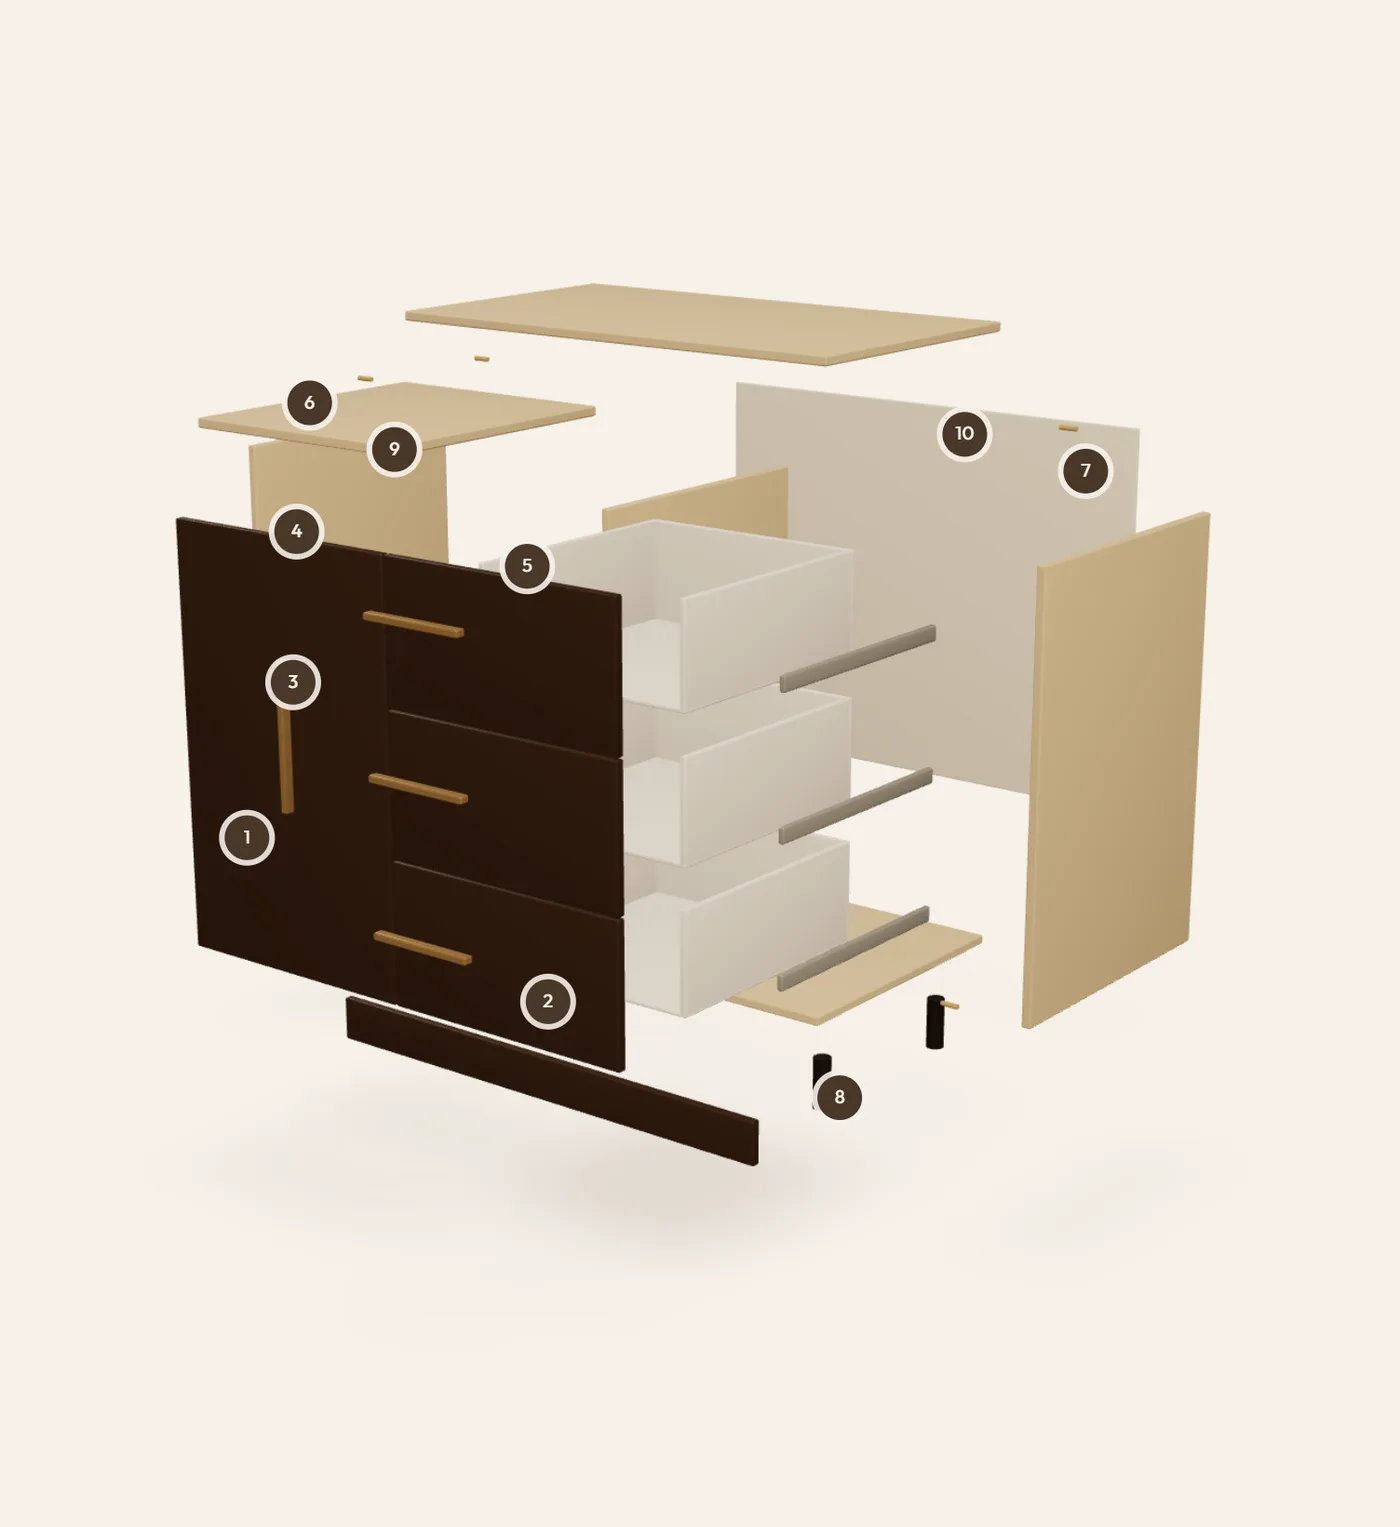
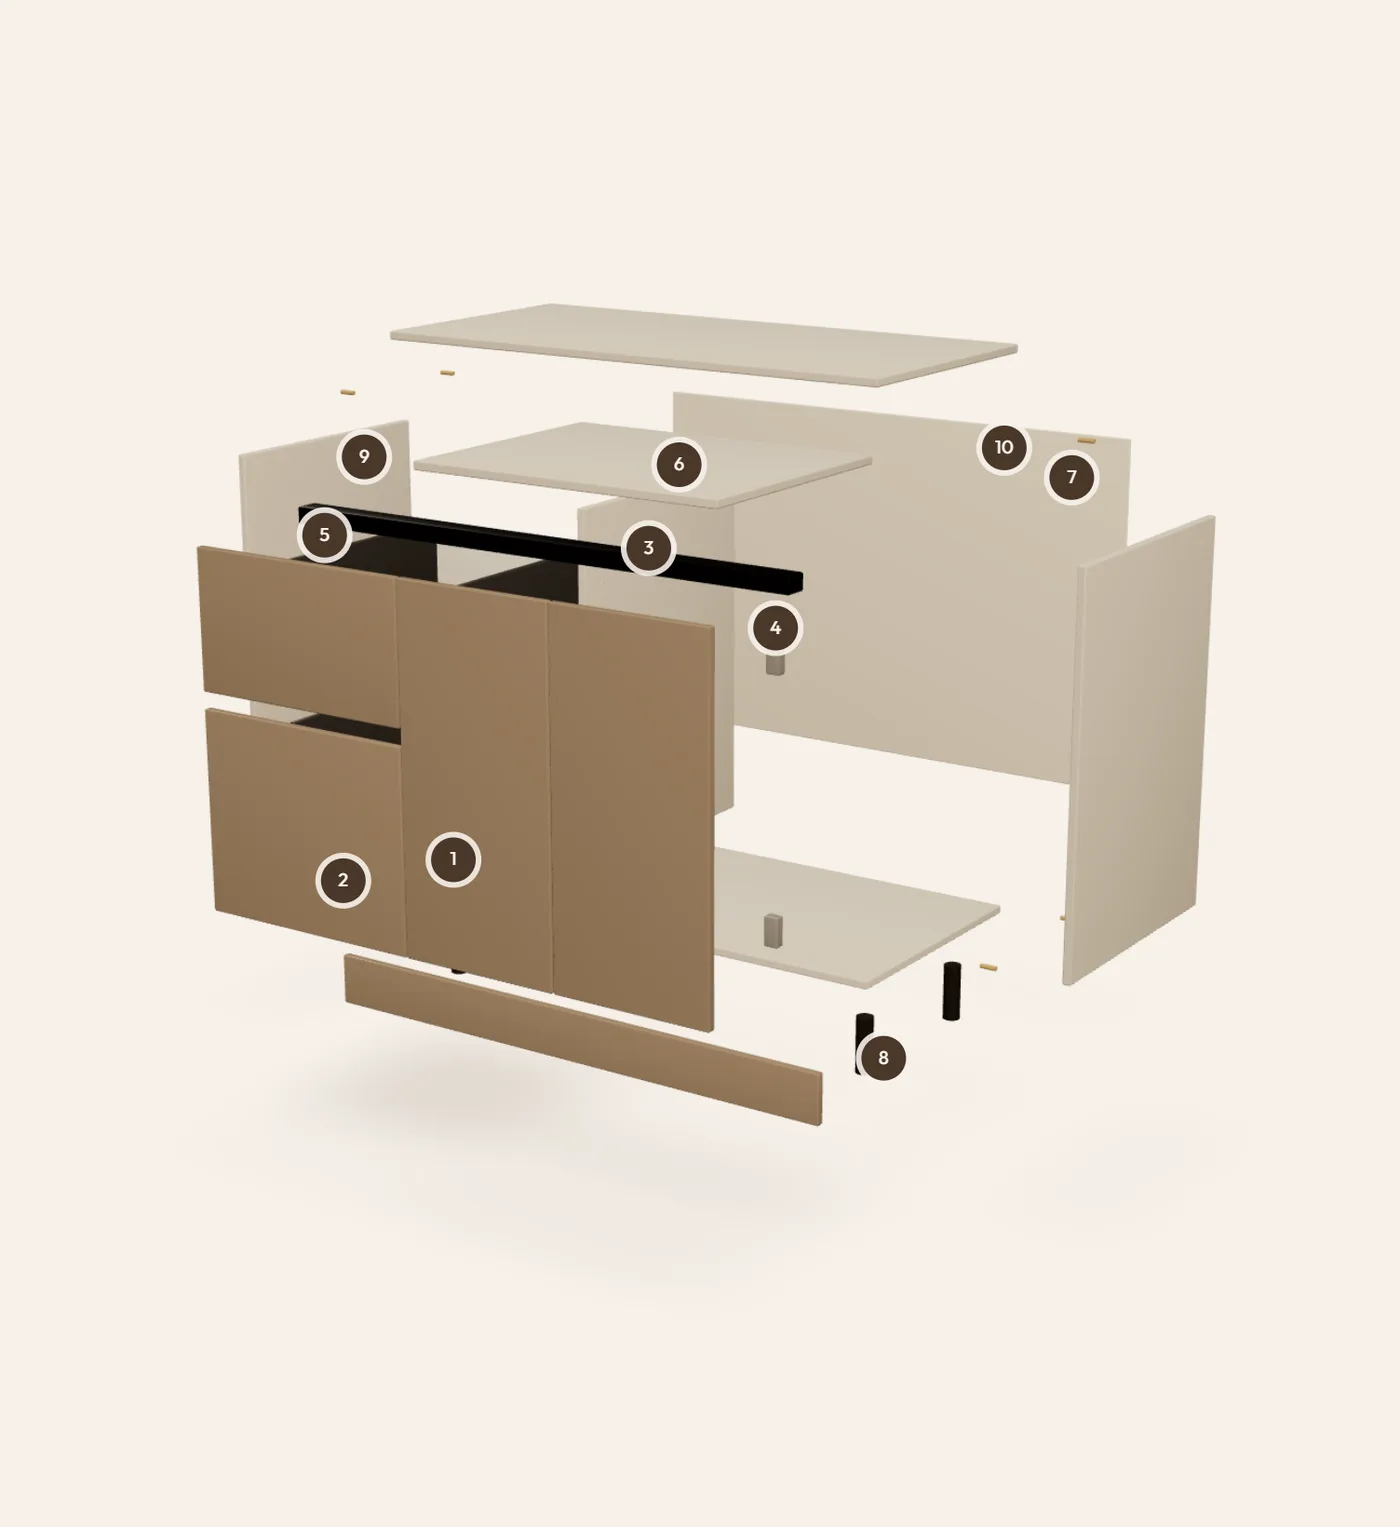
3D dolap gerçek ürüne ve malzemelere göre güncellendi
- Marka sahibinin ürün fotoğrafına göre yeniden modellendi: şampanya
  akrilik kapaklar, siyah gola kanalları, solda 2 çekmece + sağda çift
  kapak, geride baza, 12 cm ayak, tandem çekmece
- Renkler fotoğraftan ölçüldü; dönüş açısı ön yüzü daha iyi gösteriyor
- Parça listesi gerçek malzemelerle güncellendi (akrilik MDF, 3 mm PVC,
  Samet menteşe ve tandem ray, MDF-lam gövde); bağlantı parçaları hâlâ
  doğrulanmadı
- Yedek görseller yeni modelden yeniden üretildi
- Ürün fotoğrafı assets-kaynak/ klasörüne taşındı

Changed region(s): [[0.1229, 0.1847, 0.8907, 0.7695], [0.6143, 0.4001, 0.6757, 0.4309]]

diff --git a/components/home/cabinet/CabinetCanvas.tsx b/components/home/cabinet/CabinetCanvas.tsx
@@ -10,29 +10,66 @@ import { acilmaMiktari } from "./zamanlama";
 
 /*
  * Kodla modellenmiş alt dolap modülü. Birim: metre.
- * 100 cm genişlik × 80 cm gövde yüksekliği × 56 cm derinlik, 10 cm ayak.
- * Sol bölme: kapak + raf. Sağ bölme: üç çekmece.
+ * Görünüm marka sahibinin gönderdiği gerçek üründen (assets-kaynak/dolap.jpeg):
+ * şampanya tonunda parlak akrilik kapaklar, kulpsuz siyah gola kanalları,
+ * solda iki çekmece, sağda çift kapak.
+ *
+ * 120 cm genişlik × 80 cm gövde × 56 cm derinlik, 12 cm ayak.
  * Panel kalınlıkları gerçek ölçüde: gövde 18 mm, arkalık 8 mm.
  */
-const W = 1.0;
+const W = 1.2;
 const H = 0.8;
 const D = 0.56;
 const T = 0.018;
 const B = 0.008;
 /** Ön paneller arası boşluk */
 const ARA = 0.003;
+/** Gola kanalı yüksekliği */
+const GOLA = 0.035;
+const AYAK = 0.12;
 
-const BOLME_GENISLIGI = W / 2 - T - T / 2;
-const X_SOL = (-W / 2 + T - T / 2) / 2;
-const X_SAG = -X_SOL;
-const X_ON = (-W / 2 + ARA - ARA / 2) / 2;
+/** Çekmece bölmesi ile kapak bölmesini ayıran orta dikmenin ekseni */
+const X_DIKME = -W / 2 + 0.5;
+const SOL_GENISLIK = X_DIKME - T / 2 - (-W / 2 + T);
+const X_SOL = (-W / 2 + T + X_DIKME - T / 2) / 2;
+const SAG_GENISLIK = W / 2 - T - (X_DIKME + T / 2);
+const X_SAG = (X_DIKME + T / 2 + W / 2 - T) / 2;
+
 const Z_ON = D / 2 + T / 2;
-const ON_GENISLIGI = W / 2 - 1.5 * ARA;
-const CEKMECE_ON_Y = (H - 4 * ARA) / 3;
-const cekmeceY = (i: number) => H / 2 - ARA - CEKMECE_ON_Y / 2 - i * (CEKMECE_ON_Y + ARA);
+const Z_GOLA = D / 2 - 0.025;
+/** Önlerin üst kenarı: üstte gola kanalı kadar boşluk kalır */
+const ON_UST = H / 2 - T - GOLA;
+const ON_ALT = -H / 2 + ARA;
+
+// Sol bölme: üstte kısa, altta uzun çekmece; aralarında gola kanalı
+const CEKMECE_ON_GENISLIK = 0.5 - 1.5 * ARA;
+const X_CEKMECE_ON = (-W / 2 + ARA + X_DIKME - ARA / 2) / 2;
+const UST_CEKMECE_Y = 0.29;
+const ORTA_GOLA_UST = ON_UST - UST_CEKMECE_Y;
+const ALT_CEKMECE_UST = ORTA_GOLA_UST - GOLA;
+const cekmeceler = [
+  { y: ON_UST - UST_CEKMECE_Y / 2, h: UST_CEKMECE_Y },
+  { y: (ALT_CEKMECE_UST + ON_ALT) / 2, h: ALT_CEKMECE_UST - ON_ALT },
+];
+
+// Sağ bölme: çift kapak
+const KAPAK_SOL = X_DIKME + ARA / 2;
+const KAPAK_SAG = W / 2 - ARA;
+const KAPAK_GENISLIK = (KAPAK_SAG - KAPAK_SOL - ARA) / 2;
+const KAPAK_Y = (ON_UST + ON_ALT) / 2;
+const KAPAK_H = ON_UST - ON_ALT;
 
 type V3 = [number, number, number];
-type MalzemeAdi = "govde" | "on" | "arkalik" | "cekmece" | "metal" | "pirinc" | "plastik" | "kavela";
+type MalzemeAdi =
+  | "govde"
+  | "on"
+  | "gola"
+  | "arkalik"
+  | "cekmece"
+  | "tandem"
+  | "metal"
+  | "plastik"
+  | "kavela";
 
 type Parca = {
   asama: Asama;
@@ -48,13 +85,15 @@ type Parca = {
   kapaliykenGizli?: boolean;
 };
 
+/** Renkler gerçek ürün fotoğrafından ölçüldü (kapak #A48364, gola #110C0A). */
 const MALZEMELER: Record<MalzemeAdi, ConstructorParameters<typeof MeshStandardMaterial>[0]> = {
-  govde: { color: "#D8BF9A", roughness: 0.78 },
-  on: { color: "#4A372A", roughness: 0.4 },
+  govde: { color: "#DDD3C5", roughness: 0.72 },
+  on: { color: "#A8937E", roughness: 0.16, metalness: 0.08 },
+  gola: { color: "#15110F", roughness: 0.38, metalness: 0.5 },
   arkalik: { color: "#EADFCF", roughness: 0.9 },
-  cekmece: { color: "#F1EADF", roughness: 0.72 },
+  cekmece: { color: "#ECE5DB", roughness: 0.72 },
+  tandem: { color: "#5B5651", roughness: 0.4, metalness: 0.45 },
   metal: { color: "#BDB7AE", roughness: 0.35, metalness: 0.35 },
-  pirinc: { color: "#BF9763", roughness: 0.32, metalness: 0.45 },
   plastik: { color: "#2A211B", roughness: 0.6 },
   kavela: { color: "#C9A46E", roughness: 0.8 },
 };
@@ -67,7 +106,7 @@ function parcalariKur(): Parca[] {
   p.push({ asama: 3, kutu: [T, H, D], konum: [W / 2 - T / 2, 0, 0], acilma: [0.42, 0, 0], malzeme: "govde" });
   p.push({ asama: 3, kutu: [W - 2 * T, T, D - B], konum: [0, H / 2 - T / 2, B / 2], acilma: [0, 0.3, 0], malzeme: "govde" });
   p.push({ asama: 3, kutu: [W - 2 * T, T, D - B], konum: [0, -H / 2 + T / 2, B / 2], acilma: [0, -0.1, 0], malzeme: "govde" });
-  p.push({ asama: 3, kutu: [T, H - 2 * T, D - B], konum: [0, 0, B / 2], acilma: [0, 0, 0], malzeme: "govde" });
+  p.push({ asama: 3, kutu: [T, H - 2 * T, D - B], konum: [X_DIKME, 0, B / 2], acilma: [0, 0, 0], malzeme: "govde" });
 
   // Kavelalar: kapalıyken yan panel ile tabla arasına gömülü, açılınca ortada
   for (const sx of [-1, 1])
@@ -84,47 +123,55 @@ function parcalariKur(): Parca[] {
         });
 
   // ── Aşama 2: arkalık, ayaklar, baza ─────────────────────────
-  p.push({ asama: 2, kutu: [W - 0.004, H - 0.004, B], konum: [0, 0, -D / 2 + B / 2], acilma: [0, 0.04, -0.5], malzeme: "arkalik", isaret: { no: 7, konum: [0.38, 0.3, 0] } });
+  p.push({ asama: 2, kutu: [W - 0.004, H - 0.004, B], konum: [0, 0, -D / 2 + B / 2], acilma: [0, 0.04, -0.5], malzeme: "arkalik", isaret: { no: 7, konum: [0.46, 0.3, 0] } });
   for (const sx of [-1, 1])
     for (const sz of [-1, 1])
       p.push({
         asama: 2,
-        silindir: { r: 0.017, h: 0.1, eksen: "y" },
-        konum: [sx * (W / 2 - 0.07), -H / 2 - 0.05, sz * (D / 2 - 0.09)],
+        silindir: { r: 0.018, h: AYAK, eksen: "y" },
+        konum: [sx * (W / 2 - 0.08), -H / 2 - AYAK / 2, sz * (D / 2 - 0.1)],
         acilma: [0, -0.2, 0],
         malzeme: "plastik",
-        isaret: sx > 0 && sz > 0 ? { no: 8, konum: [0.04, -0.02, 0] } : undefined,
+        isaret: sx > 0 && sz > 0 ? { no: 8, konum: [0.045, -0.02, 0] } : undefined,
       });
-  p.push({ asama: 2, kutu: [W - 0.01, 0.085, T], konum: [0, -H / 2 - 0.052, D / 2 - 0.06], acilma: [0, -0.2, 0.26], malzeme: "on" });
+  // Baza: fotoğraftaki gibi geriden, kapaklarla aynı renkte
+  p.push({ asama: 2, kutu: [W - 0.01, AYAK - 0.012, T], konum: [0, -H / 2 - AYAK / 2, D / 2 - 0.07], acilma: [0, -0.2, 0.26], malzeme: "on" });
 
   // ── Aşama 1: raf, çekmece kutuları ve rayları ───────────────
-  // Raf kapağın arkasında görünmez kalmasın diye kapağın üstüne doğru çıkar.
-  p.push({ asama: 1, kutu: [BOLME_GENISLIGI - 0.004, T, D - B - 0.03], konum: [X_SOL, 0.01, B / 2 - 0.015], acilma: [0, 0.55, 0.56], malzeme: "govde", isaret: { no: 6, konum: [-0.1, 0.03, 0.12] } });
+  // Raf kapakların arkasında görünmez kalmasın diye kapakların üstüne doğru çıkar.
+  p.push({ asama: 1, kutu: [SAG_GENISLIK - 0.004, T, D - B - 0.03], konum: [X_SAG, 0, B / 2 - 0.015], acilma: [0, 0.55, 0.56], malzeme: "govde", isaret: { no: 6, konum: [0.16, 0.03, 0.12] } });
 
-  const kg = BOLME_GENISLIGI - 0.026;
-  const ky = CEKMECE_ON_Y - 0.07;
+  const kg = SOL_GENISLIK - 0.03;
   const kd = D - B - 0.07;
   const kz = D / 2 - kd / 2 - 0.012;
-  for (let i = 0; i < 3; i++) {
-    const y = cekmeceY(i) - 0.012;
+  cekmeceler.forEach((c, i) => {
+    const ky = c.h - (i === 0 ? 0.1 : 0.12);
+    const y = c.y - 0.01;
     const ac: V3 = [0, 0, 0.38];
-    p.push({ asama: 1, kutu: [0.012, ky, kd], konum: [X_SAG - kg / 2 + 0.006, y, kz], acilma: ac, malzeme: "cekmece", isaret: i === 0 ? { no: 5, konum: [0, 0.07, 0.12] } : undefined });
-    p.push({ asama: 1, kutu: [0.012, ky, kd], konum: [X_SAG + kg / 2 - 0.006, y, kz], acilma: ac, malzeme: "cekmece" });
-    p.push({ asama: 1, kutu: [kg, ky, 0.012], konum: [X_SAG, y, kz - kd / 2 + 0.006], acilma: ac, malzeme: "cekmece" });
-    p.push({ asama: 1, kutu: [kg, 0.008, kd], konum: [X_SAG, y - ky / 2 + 0.004, kz], acilma: ac, malzeme: "cekmece" });
+    // Tandem çekmece: metal yanlar, MDF arkalık ve taban
+    p.push({ asama: 1, kutu: [0.014, ky, kd], konum: [X_SOL - kg / 2 + 0.007, y, kz], acilma: ac, malzeme: "tandem", isaret: i === 0 ? { no: 5, konum: [0, ky / 2 + 0.03, 0.12] } : undefined });
+    p.push({ asama: 1, kutu: [0.014, ky, kd], konum: [X_SOL + kg / 2 - 0.007, y, kz], acilma: ac, malzeme: "tandem" });
+    p.push({ asama: 1, kutu: [kg, ky, 0.014], konum: [X_SOL, y, kz - kd / 2 + 0.007], acilma: ac, malzeme: "cekmece" });
+    p.push({ asama: 1, kutu: [kg, 0.016, kd], konum: [X_SOL, y - ky / 2 + 0.008, kz], acilma: ac, malzeme: "cekmece" });
+    // Tandem ray: çekmecenin altında, gizli
     for (const s of [-1, 1])
-      p.push({ asama: 1, kutu: [0.012, 0.03, kd - 0.02], konum: [X_SAG + s * (kg / 2 + 0.0065), y - ky / 2 + 0.02, kz], acilma: [s * 0.05, 0, 0.2], malzeme: "metal" });
-  }
+      p.push({ asama: 1, kutu: [0.014, 0.014, kd - 0.02], konum: [X_SOL + s * (kg / 2 - 0.03), y - ky / 2 - 0.008, kz], acilma: [s * 0.04, -0.03, 0.2], malzeme: "metal" });
+  });
 
-  // ── Aşama 0: kapak, çekmece önleri, kulplar, menteşeler ─────
-  p.push({ asama: 0, kutu: [ON_GENISLIGI, H - 2 * ARA, T], konum: [X_ON, 0, Z_ON], acilma: [0, 0, 0.56], malzeme: "on", isaret: { no: 1, konum: [-0.1, -0.16, 0.012] } });
-  for (let i = 0; i < 3; i++)
-    p.push({ asama: 0, kutu: [ON_GENISLIGI, CEKMECE_ON_Y, T], konum: [-X_ON, cekmeceY(i), Z_ON], acilma: [0, 0, 0.56], malzeme: "on", isaret: i === 2 ? { no: 2, konum: [0.1, -0.04, 0.012] } : undefined });
-  p.push({ asama: 0, kutu: [0.014, 0.26, 0.02], konum: [-0.045, 0.12, Z_ON + T / 2 + 0.012], acilma: [0, 0, 0.74], malzeme: "pirinc", isaret: { no: 3, konum: [0.035, 0.1, 0.01] } });
-  for (let i = 0; i < 3; i++)
-    p.push({ asama: 0, kutu: [0.2, 0.014, 0.02], konum: [-X_ON, cekmeceY(i) + CEKMECE_ON_Y / 2 - 0.045, Z_ON + T / 2 + 0.012], acilma: [0, 0, 0.74], malzeme: "pirinc" });
-  for (const sy of [-1, 1])
-    p.push({ asama: 0, kutu: [0.03, 0.06, 0.022], konum: [-W / 2 + T + 0.02, sy * 0.28, D / 2 - 0.02], acilma: [0, 0, 0.34], malzeme: "metal", isaret: sy > 0 ? { no: 4, konum: [0, 0.055, 0] } : undefined });
+  // ── Aşama 0: kapaklar, çekmece önleri, gola kulplar, menteşeler ──
+  p.push({ asama: 0, kutu: [CEKMECE_ON_GENISLIK, UST_CEKMECE_Y, T], konum: [X_CEKMECE_ON, cekmeceler[0].y, Z_ON], acilma: [0, 0, 0.56], malzeme: "on" });
+  p.push({ asama: 0, kutu: [CEKMECE_ON_GENISLIK, cekmeceler[1].h, T], konum: [X_CEKMECE_ON, cekmeceler[1].y, Z_ON], acilma: [0, 0, 0.56], malzeme: "on", isaret: { no: 2, konum: [0.1, -0.08, 0.012] } });
+  p.push({ asama: 0, kutu: [KAPAK_GENISLIK, KAPAK_H, T], konum: [KAPAK_SOL + KAPAK_GENISLIK / 2, KAPAK_Y, Z_ON], acilma: [0, 0, 0.56], malzeme: "on", isaret: { no: 1, konum: [-0.05, -0.15, 0.012] } });
+  p.push({ asama: 0, kutu: [KAPAK_GENISLIK, KAPAK_H, T], konum: [KAPAK_SAG - KAPAK_GENISLIK / 2, KAPAK_Y, Z_ON], acilma: [0, 0, 0.56], malzeme: "on" });
+
+  // Gola kanalları: üstte boydan boya, solda iki çekmece arasında
+  p.push({ asama: 0, kutu: [W - 2 * T, GOLA, 0.05], konum: [0, H / 2 - T - GOLA / 2, Z_GOLA], acilma: [0, 0, 0.3], malzeme: "gola", isaret: { no: 3, konum: [0.28, 0.035, 0.03] } });
+  p.push({ asama: 0, kutu: [SOL_GENISLIK, GOLA, 0.05], konum: [X_SOL, ORTA_GOLA_UST - GOLA / 2, Z_GOLA], acilma: [0, 0, 0.3], malzeme: "gola" });
+
+  // Menteşeler: sol kapak orta dikmeye, sağ kapak yan panele takılı
+  for (const x of [X_DIKME + T / 2 + 0.015, W / 2 - T - 0.015])
+    for (const sy of [-1, 1])
+      p.push({ asama: 0, kutu: [0.03, 0.06, 0.022], konum: [x, KAPAK_Y + sy * 0.26, D / 2 - 0.02], acilma: [0, 0, 0.34], malzeme: "metal", isaret: x > 0 && sy > 0 ? { no: 4, konum: [0, 0.055, 0] } : undefined });
 
   return p;
 }
@@ -162,10 +209,10 @@ function Sahne({ ilerleme }: { ilerleme: MotionValue<number> }) {
     // Dar (dikey) ekranda dolap sığsın diye kamera geri çekilir
     const oran = state.size.width / state.size.height;
     const uzaklik = Math.max(1, (state.size.width < 768 ? 1.6 : 1.35) / oran);
-    state.camera.position.set(1.7 * uzaklik, 0.85 * uzaklik, 2.5 * uzaklik);
-    state.camera.lookAt(0, -0.06, 0);
+    state.camera.position.set(1.85 * uzaklik, 0.92 * uzaklik, 2.75 * uzaklik);
+    state.camera.lookAt(0, -0.08, 0);
 
-    if (grup.current) grup.current.rotation.y = -0.6 + p * 0.9;
+    if (grup.current) grup.current.rotation.y = -0.45 + p * 0.75;
 
     PARCALAR.forEach((parca, i) => {
       const g = parcaGruplari.current[i];
@@ -189,7 +236,7 @@ function Sahne({ ilerleme }: { ilerleme: MotionValue<number> }) {
       <directionalLight position={[2.5, 4, 3]} intensity={1.9} color="#fff1dc" />
       <directionalLight position={[-3, 2, -2]} intensity={0.45} color="#e8ddd0" />
 
-      <group ref={grup} position={[0, 0.1, 0]}>
+      <group ref={grup} position={[0, 0.12, 0]}>
         {PARCALAR.map((parca, i) => (
           <group
             key={i}
@@ -230,7 +277,7 @@ function Sahne({ ilerleme }: { ilerleme: MotionValue<number> }) {
         ))}
       </group>
 
-      <ContactShadows position={[0, -0.72, 0]} scale={3.4} far={1.6} blur={2.6} opacity={0.3} color="#4A372A" />
+      <ContactShadows position={[0, -0.76, 0]} scale={3.8} far={1.6} blur={2.6} opacity={0.3} color="#4A372A" />
     </>
   );
 }
@@ -251,7 +298,7 @@ export default function CabinetCanvas({
     <Canvas
       frameloop="demand"
       dpr={[1, 1.75]}
-      camera={{ fov: 30, near: 0.1, far: 20, position: [1.7, 0.85, 2.5] }}
+      camera={{ fov: 30, near: 0.1, far: 20, position: [1.85, 0.92, 2.75] }}
       gl={{ antialias: true, alpha: true }}
       onCreated={onHazir}
     >

diff --git a/data/cabinetParts.ts b/data/cabinetParts.ts
@@ -1,10 +1,12 @@
 /**
  * "Bir dolabın anatomisi" bölümündeki parça listesi.
  *
- * ⚠ Malzeme bilgileri TASLAK — marka sahibi onaylamalı
- * (docs/TASARIM-PLANI.md §6 ve §10.5). Gerçek bilgiler gelince yalnızca
- * bu dosyayı güncellemek yeterli; 3D sahnedeki numaralar `no` ile eşleşir.
+ * Malzemeler marka sahibinden alındı (15.09.2026). Yalnızca 10 numara
+ * (bağlantı parçaları) henüz doğrulanmadı; bkz. docs/TASARIM-PLANI.md §10.5.
+ * Sitede listenin altında "malzeme ve donanım seçimi projeye göre birlikte
+ * belirlenir" notu durur; liste "genelde bunları kullanıyoruz" anlamındadır.
  *
+ * 3D sahnedeki numaralar `no` ile eşleşir.
  * `asama`: parçanın kaydırma sırasında ayrıldığı adım (0 → 3).
  */
 export type Asama = 0 | 1 | 2 | 3;
@@ -29,38 +31,38 @@ export const dolapParcalari: DolapParcasi[] = [
   {
     no: 1,
     asama: 0,
-    ad: { TR: "Kapak", EN: "Door" },
-    malzeme: { TR: "18 mm lake MDF, PVC kenar bandı", EN: "18 mm lacquered MDF, PVC edge banding" },
+    ad: { TR: "Kapaklar", EN: "Doors" },
+    malzeme: { TR: "18 mm akrilik MDF, 3 mm PVC kenar bandı", EN: "18 mm acrylic MDF, 3 mm PVC edge banding" },
   },
   {
     no: 2,
     asama: 0,
     ad: { TR: "Çekmece önleri", EN: "Drawer fronts" },
-    malzeme: { TR: "18 mm lake MDF", EN: "18 mm lacquered MDF" },
+    malzeme: { TR: "18 mm akrilik MDF", EN: "18 mm acrylic MDF" },
   },
   {
     no: 3,
     asama: 0,
-    ad: { TR: "Kulplar", EN: "Handles" },
-    malzeme: { TR: "Metal profil kulp", EN: "Metal profile handles" },
+    ad: { TR: "Kulp", EN: "Handles" },
+    malzeme: { TR: "Siyah metal gola kulp", EN: "Black metal gola (handleless) profile" },
   },
   {
     no: 4,
     asama: 0,
     ad: { TR: "Menteşeler", EN: "Hinges" },
-    malzeme: { TR: "Frenli (yavaş kapanan) menteşe", EN: "Soft-close hinges" },
+    malzeme: { TR: "Samet frenli menteşe", EN: "Samet soft-close hinges" },
   },
   {
     no: 5,
     asama: 1,
-    ad: { TR: "Çekmece kutusu ve rayı", EN: "Drawer boxes and runners" },
-    malzeme: { TR: "Frenli, tam açılım ray", EN: "Soft-close, full-extension runners" },
+    ad: { TR: "Çekmece ve rayı", EN: "Drawers and runners" },
+    malzeme: { TR: "Samet tandem ray, frenli ve tam açılım", EN: "Samet tandem runners, soft-close, full extension" },
   },
   {
     no: 6,
     asama: 1,
     ad: { TR: "Raf", EN: "Shelf" },
-    malzeme: { TR: "18 mm suntalam", EN: "18 mm melamine board" },
+    malzeme: { TR: "18 mm MDF", EN: "18 mm MDF" },
   },
   {
     no: 7,
@@ -72,13 +74,13 @@ export const dolapParcalari: DolapParcasi[] = [
     no: 8,
     asama: 2,
     ad: { TR: "Ayak ve baza", EN: "Legs and plinth" },
-    malzeme: { TR: "Ayarlanabilir ayak, baza", EN: "Adjustable legs, plinth" },
+    malzeme: { TR: "12 cm ayak, baza", EN: "12 cm legs, plinth" },
   },
   {
     no: 9,
     asama: 3,
     ad: { TR: "Gövde", EN: "Carcass" },
-    malzeme: { TR: "18 mm suntalam veya MDF-lam", EN: "18 mm melamine board or MDF" },
+    malzeme: { TR: "18 mm MDF-lam", EN: "18 mm melamine-faced MDF" },
   },
   {
     no: 10,

diff --git a/docs/TASARIM-PLANI.md b/docs/TASARIM-PLANI.md
@@ -281,13 +281,16 @@ Mobil kontroller, erişilebilirlik (odak halkası, kontrast, alt metinler, klavy
 
 - [ ] **Aynı mutfak iki kez:** Ana sayfada süreç bölümü ve çizim/uygulama kaydırıcısı aynı videoyu kullanıyor. Gerçek öncesi/sonrası fotoğrafı gelirse kaydırıcı onunla değişecek, gelmezse `/oncesi-sonrasi` sayfasına taşınacak.
 - [ ] **Süreç videosu gerçek proje mi?** Dosya adı (`hf_…`) yapay zekâ üretimini düşündürüyor. Metinler bu yüzden tarafsız. Gerçekse metin güçlendirilecek, değilse marka sahibinin yayın onayı alınacak.
-- [ ] **Taslak metinler:** "Her proje yerinde ölçüyle başlar", süreç adımlarının açıklamaları, "üretime onaylanan çizimle başlıyoruz", Instagram bandı cümleleri, dolap malzeme etiketleri.
-- [ ] **3D dolabın görünümü:** Koyu kahve lake kapak + açık meşe gövde + pirinç kulp temsili bir seçim. Marka sahibinin en çok ürettiği dolap tarzına (renk, kulp, bölme düzeni) uyarlanabilir.
+- [ ] **Taslak metinler:** "Her proje yerinde ölçüyle başlar", süreç adımlarının açıklamaları, "üretime onaylanan çizimle başlıyoruz", Instagram bandı cümleleri.
+- [x] ~~Dolap malzeme etiketleri~~ → Marka sahibinden alındı (15.09.2026), `data/cabinetParts.ts` güncellendi. "Projeye göre birlikte belirlenir" notunun kalması onaylandı.
+- [ ] **Bağlantı parçaları (10. madde):** "Minifix ve kavela" hâlâ doğrulanmadı.
+- [ ] **Ayak ölçüsü:** Marka sahibi "12'lik ayak" dedi, sitede "12 cm ayak" yazıyor. cm olduğu teyit edilmeli.
+- [x] ~~3D dolabın görünümü~~ → Marka sahibinin gönderdiği ürün fotoğrafına (`assets-kaynak/dolap.jpeg`) göre yeniden modellendi: şampanya akrilik kapak, siyah gola, solda 2 çekmece + sağda çift kapak, 12 cm ayak.
 - [ ] **Açılış fotoğrafı:** `public/hero/yatak-odasi.jpg` eski siteden, kaynağı bilinmiyor (stok ya da yapay zekâ olabilir). Gerçek bir proje fotoğrafıyla değiştirilmesi önerildi.
 
 ## 11. Marka sahibinden istenecekler
 - [ ] Gmail adresi
-- [ ] Dolap parçalarının gerçek malzeme ve donanım bilgileri (§6 tablosu)
+- [x] Dolap parçalarının gerçek malzeme ve donanım bilgileri (bağlantı parçaları hariç)
 - [ ] Gerçek müşteri yorumları (yoksa bölüm gizli kalır)
 - [ ] 1975'ten bugüne kilometre taşları (zaman çizelgesi için)
 - [ ] Oda kategorileri için fotoğraflar (özellikle kahve köşesi, TV ünitesi, giyinme odası)

diff --git a/CLAUDE.md b/CLAUDE.md
@@ -18,6 +18,10 @@ değişirse **hem burayı hem `lib/site.ts`'yi** güncelle.
   100+ mutlu müşteri · 5+ ülkede hizmet
 - **Hizmet bölgesi:** Türkiye geneli + yurt dışı projeler (merkez İstanbul)
 - **Teklif modeli:** Ücretsiz keşif ve danışmanlık
+- **Genelde kullanılan malzemeler (marka sahibinden):** kapakta en çok akrilik ve membran,
+  18 mm akrilik MDF kapak/çekmece önü, 3 mm PVC kenar bandı, siyah metal gola kulp,
+  Samet frenli menteşe, Samet tandem ray (frenli, tam açılım), 18 mm MDF raf, 8 mm MDF arkalık,
+  12'lik ayak + baza, 18 mm MDF-lam gövde. Referans ürün fotoğrafı: `assets-kaynak/dolap.jpeg`.
 
 ## İletişim Bilgileri
 
